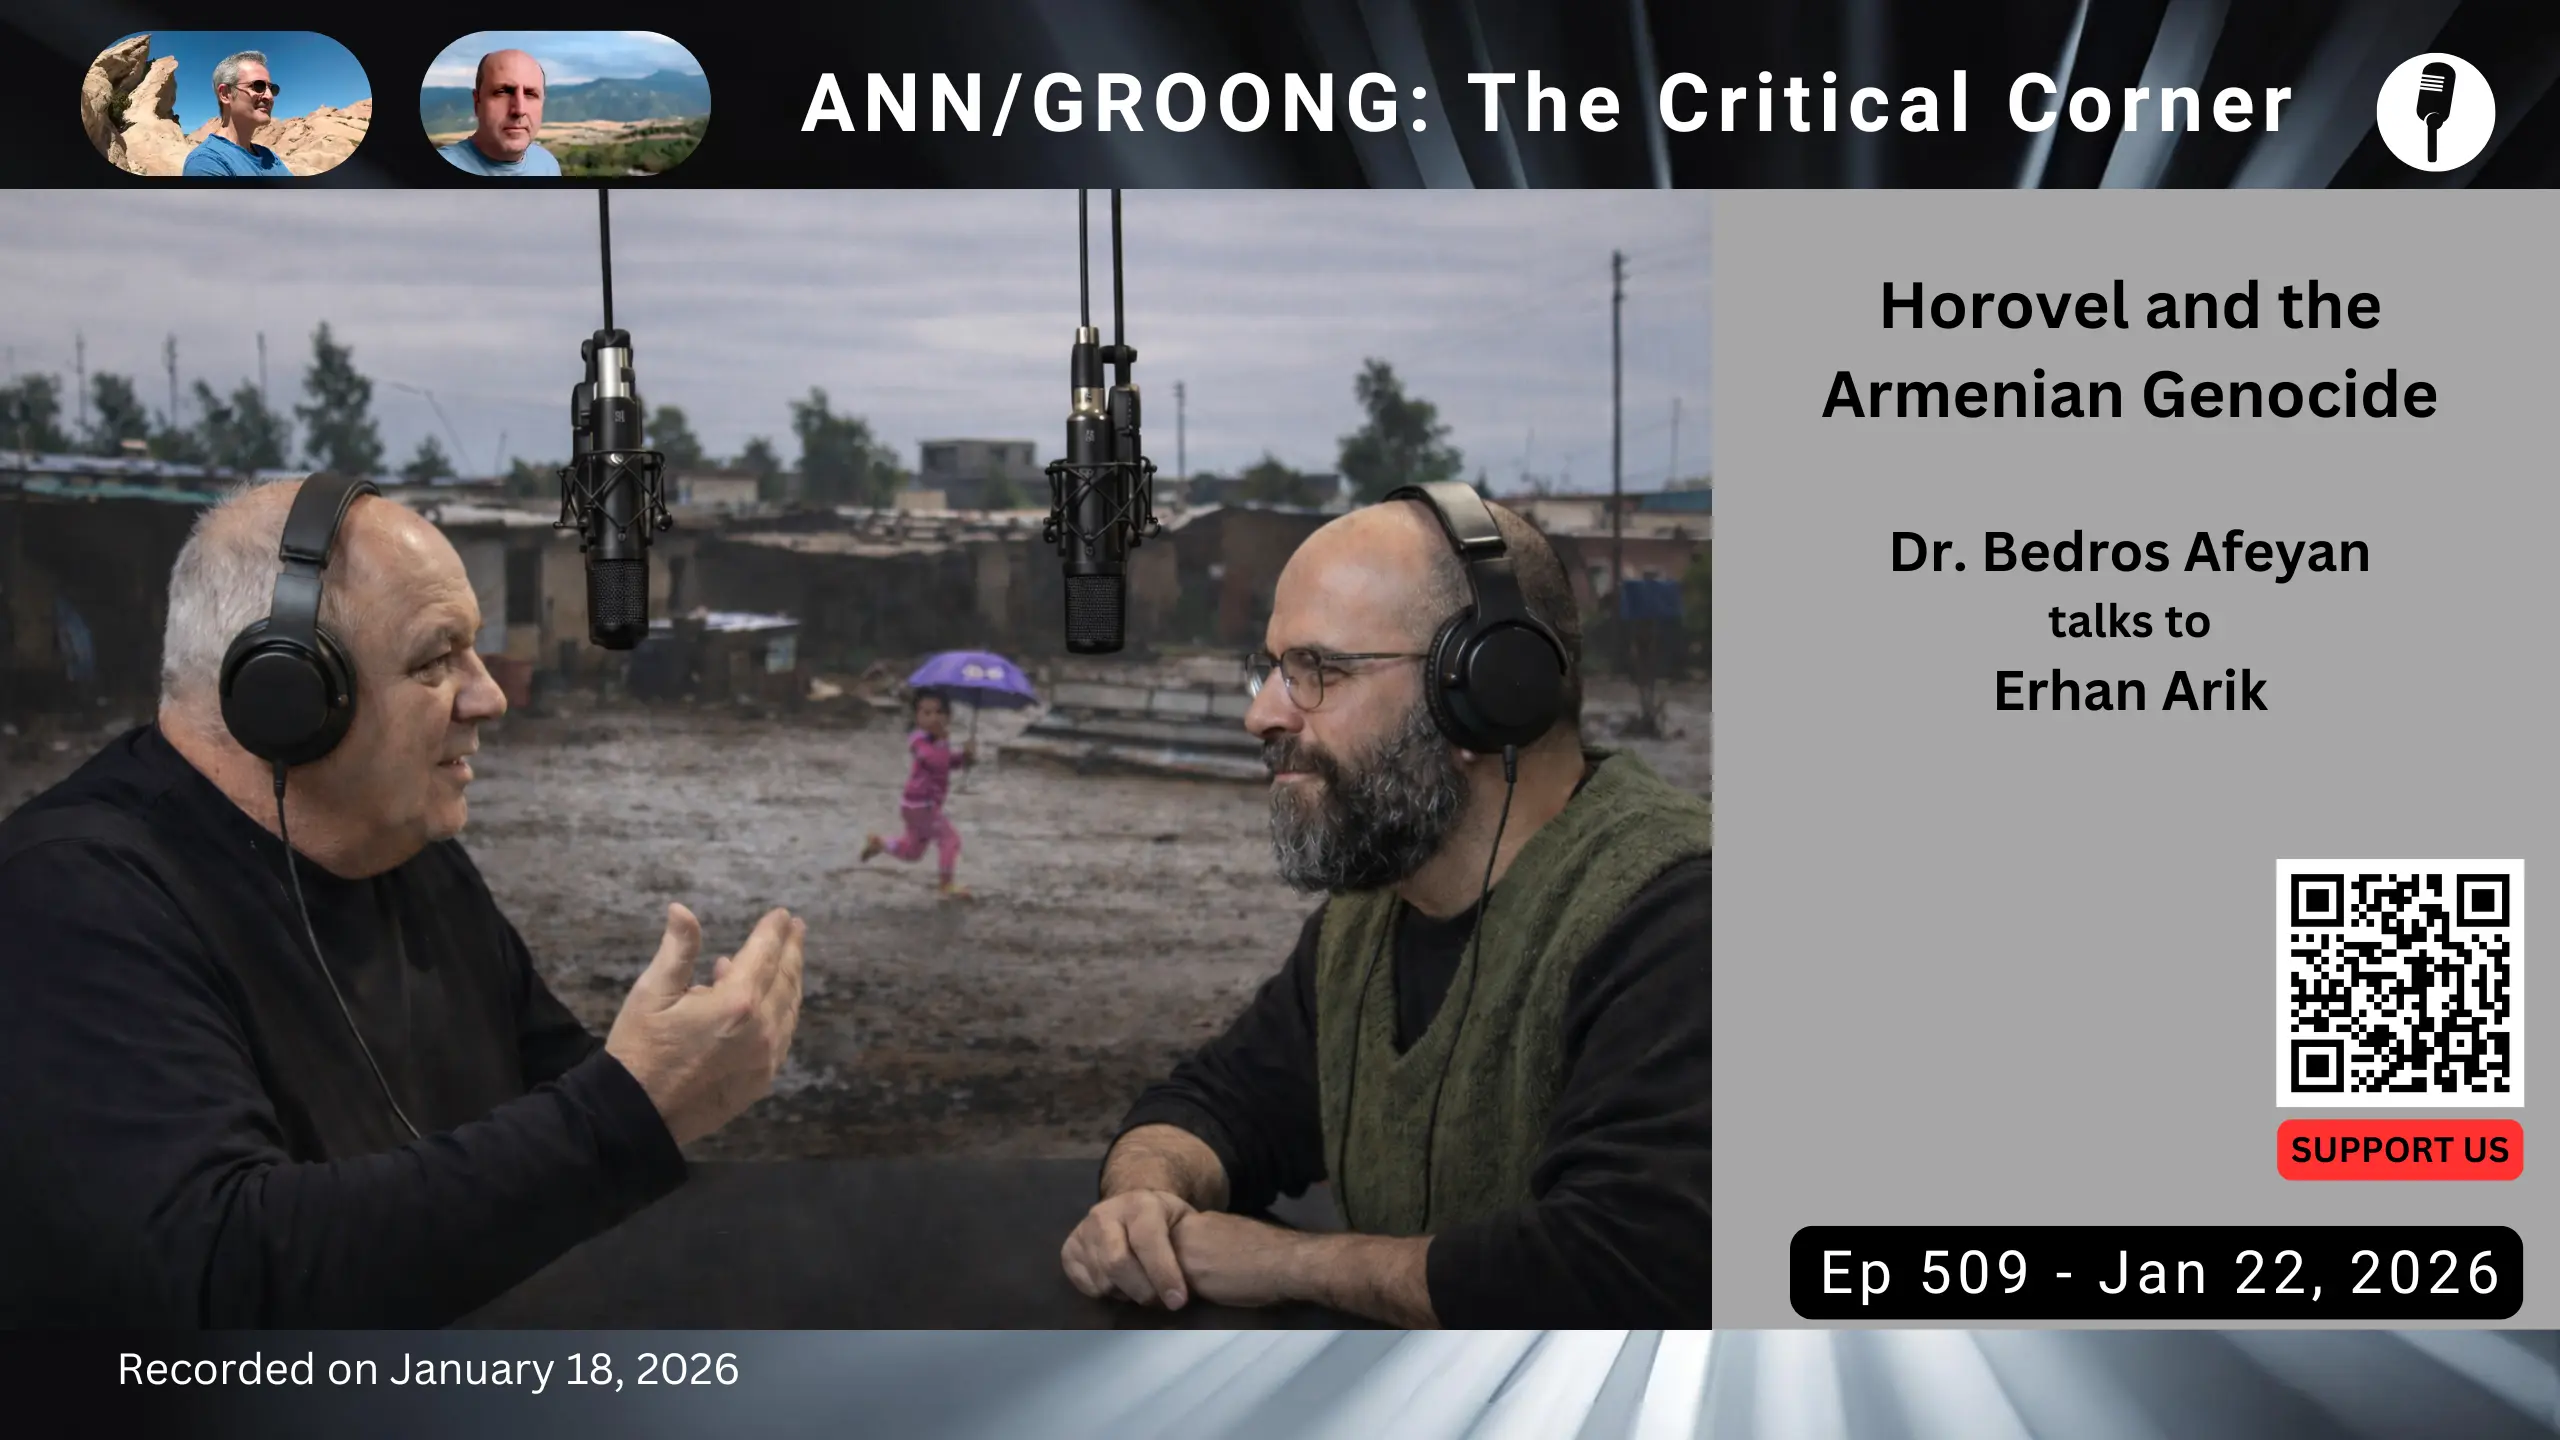
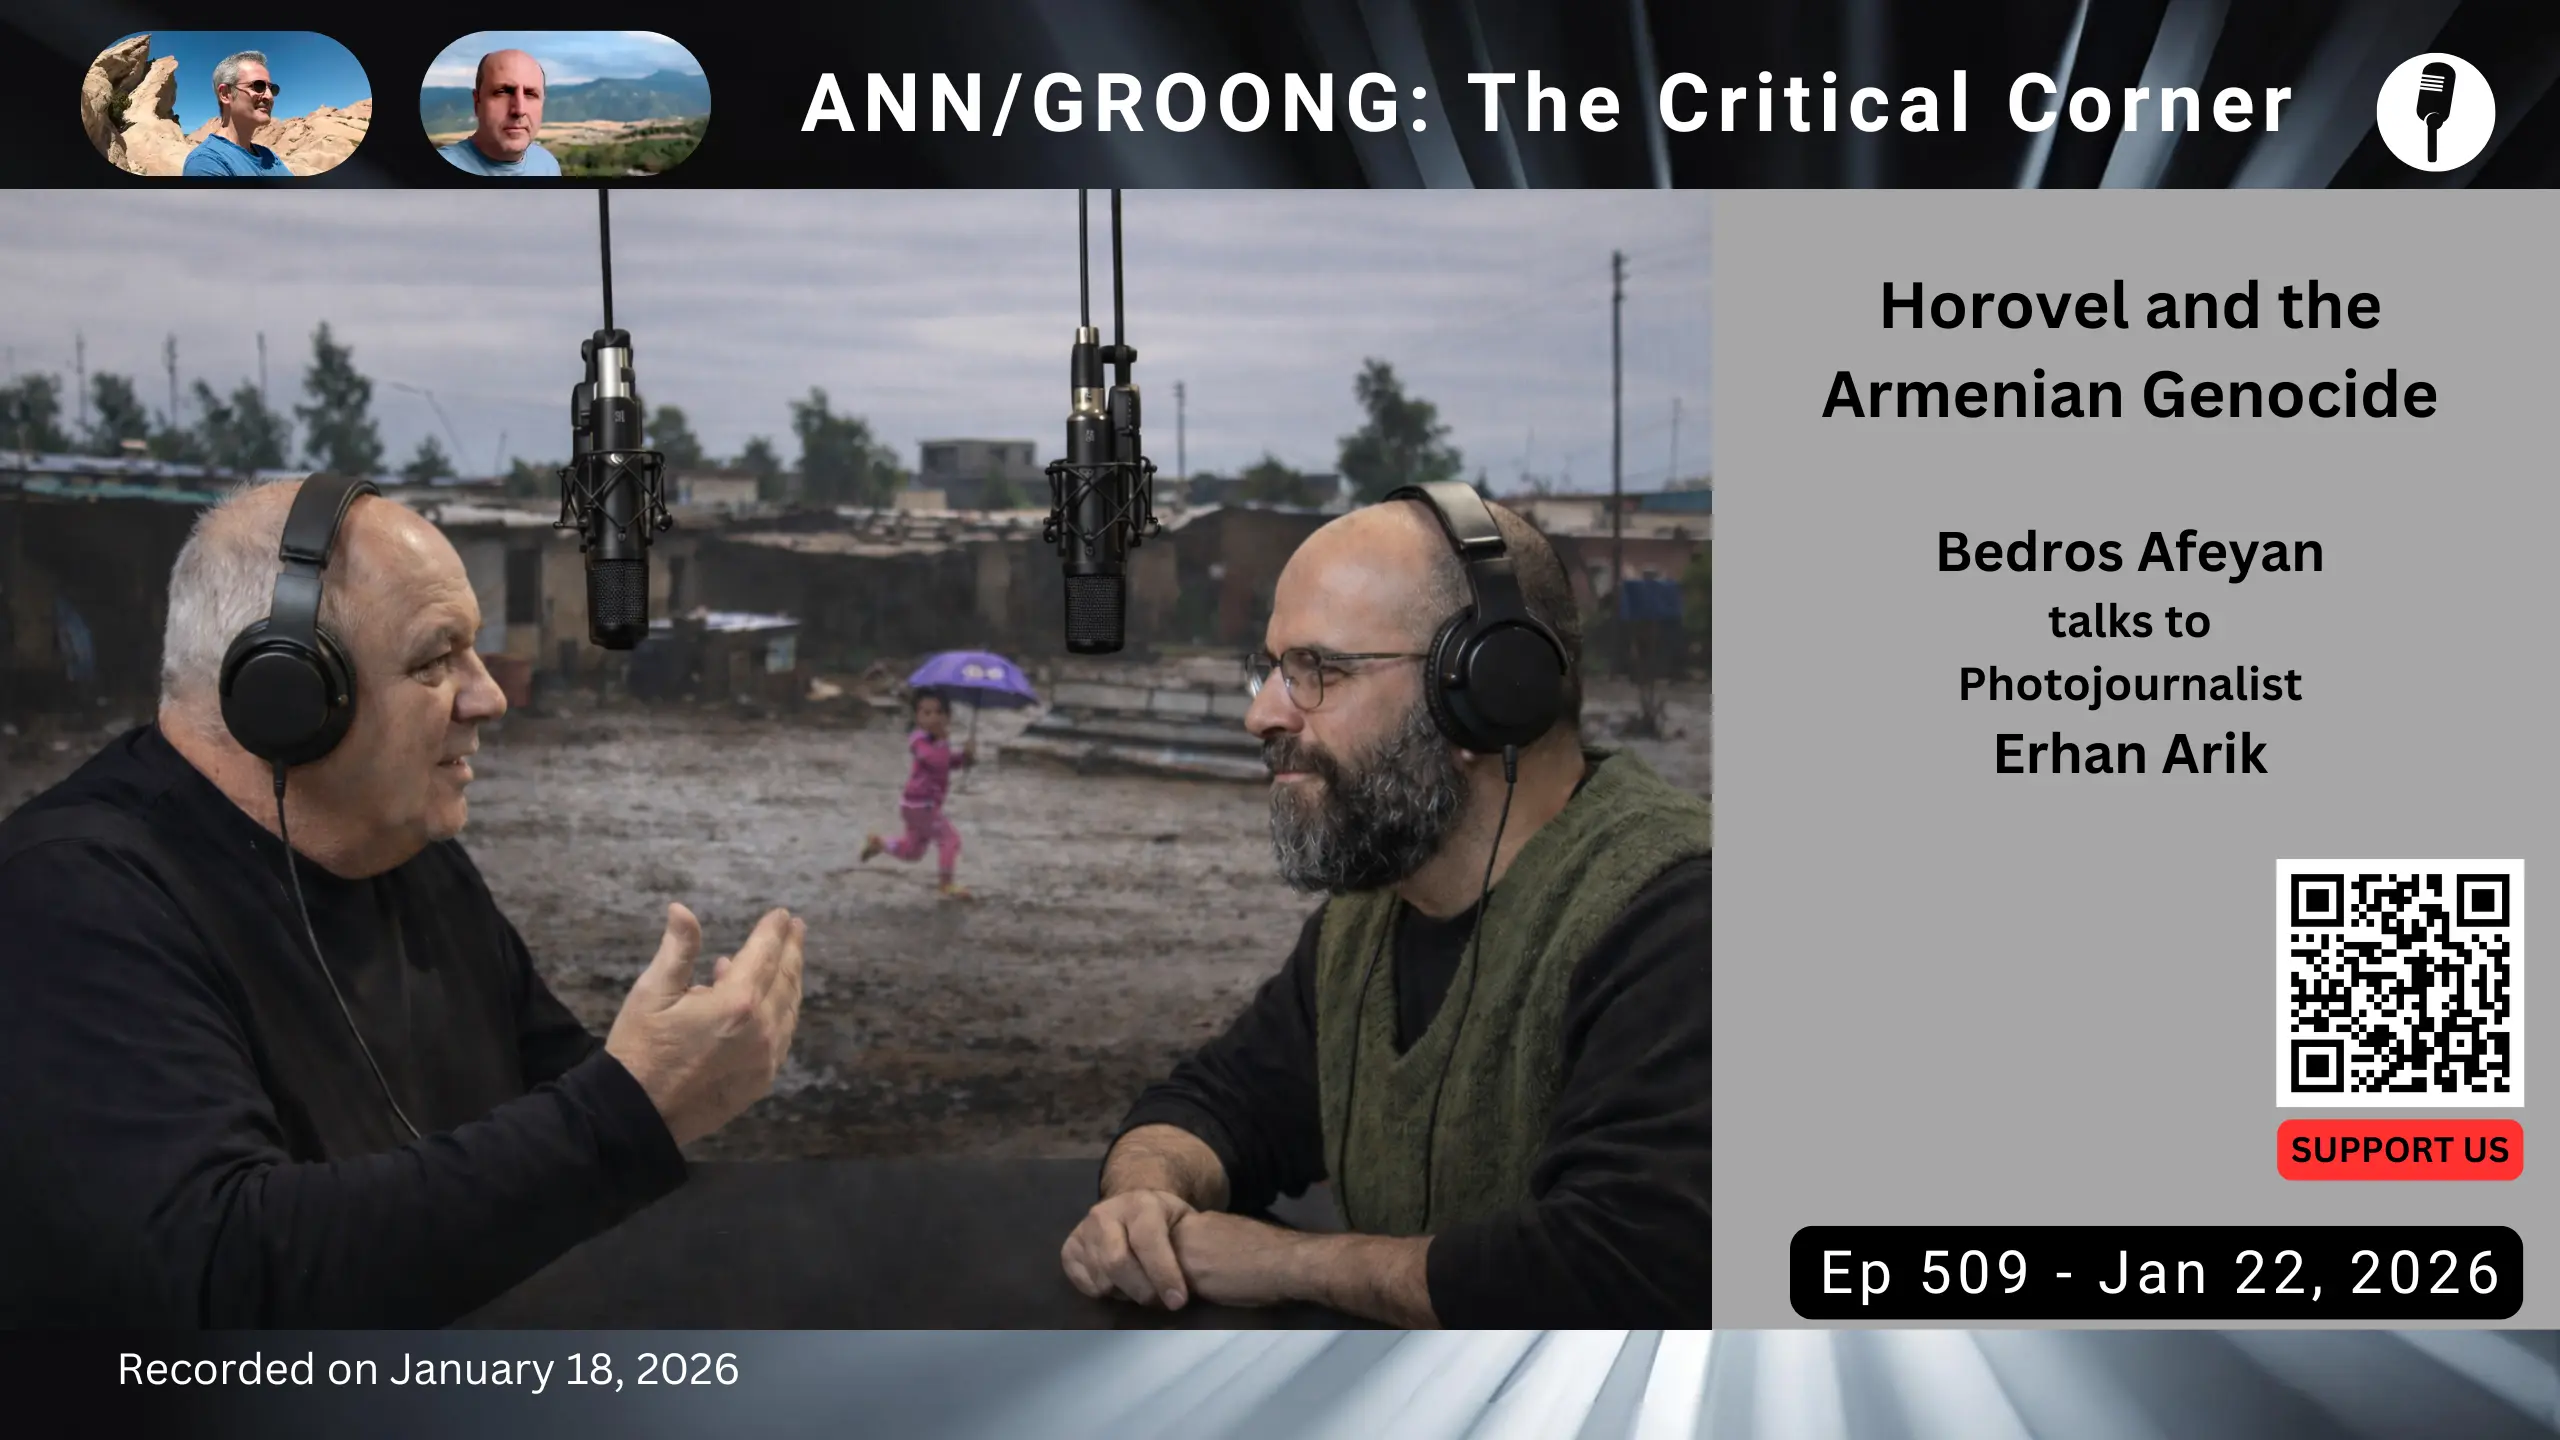
Go live EP 509

Changed region(s): [[0.75, 0.4688, 0.9062, 0.5625], [0.7188, 0.3438, 0.9375, 0.4062]]

diff --git a/content/episode/509-erhan-arik-turkey-ardahan-genocide-horovel-photo-exhibit-gayan-armenian-diaspora-middle-east-ojakh-diana-mkrtchyan.md b/content/episode/509-erhan-arik-turkey-ardahan-genocide-horovel-photo-exhibit-gayan-armenian-diaspora-middle-east-ojakh-diana-mkrtchyan.md
@@ -1,14 +1,14 @@
 +++
 Date = 2026-01-22T02:00:00-08:00
-upcoming = true
+upcoming = false
 
 title = "Erhan Arik - Horovel and The Armenian Genocide | Ep 509, Jan 22, 2026"
 subtitle = "The Critical Corner - Recorded on: January 18, 2026"
 
-podcast_file     = ""
-podcast_duration = ""
-podcast_bytes    = ""
-youtube = ""
+podcast_file     = "18551743-erhan-arik-horovel-and-the-armenian-genocide-ep-509-jan-22-2026.mp3"
+podcast_duration = "5163"
+podcast_bytes    = "62009046"
+youtube = "cPmkCC40nTU"
 
 episode_image = "img/episode/509/thumbnail-509.webp"
 episode_banner = "img/episode/509/banner-509.webp"
@@ -33,10 +33,14 @@ Description = """
 * [Dr. Bedros Afeyan](/host/bafeyan)
 
 #### Guest:
-* [Erhan Arik](/guest/earik)
+* [Erhan Arik](/guest/earik),Photojournalist
 
 #### Topics:
-- TBD
+* Horovel, a cross-border memory project
+* Ojakh, a second trip down memory lane
+* Gayan, a wider regional lens
+* Our Seeds, continuity across generations
+
 
 Episode 509 | Recorded: January 18, 2026"""
 +++
